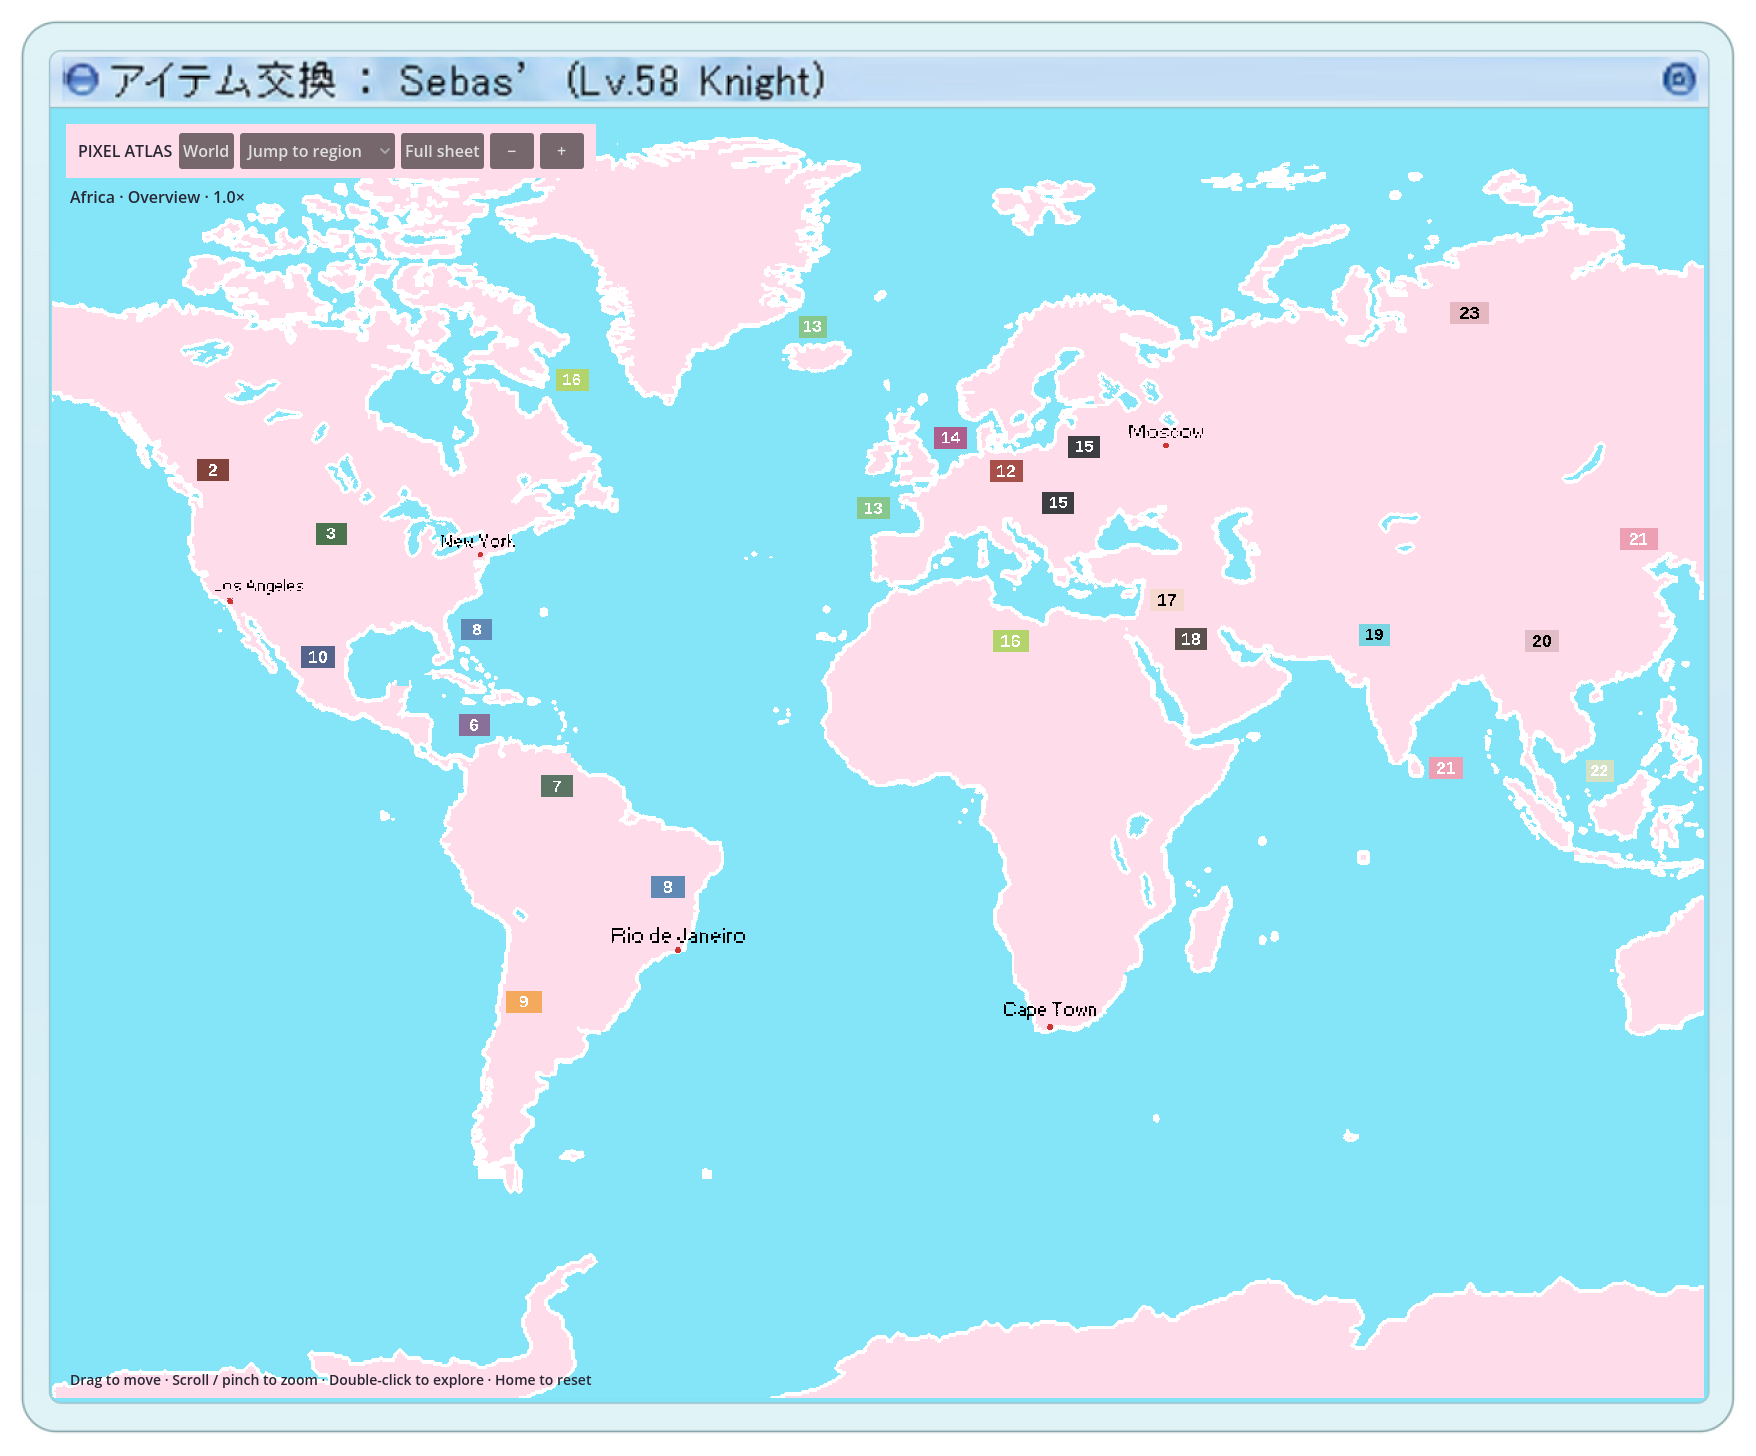
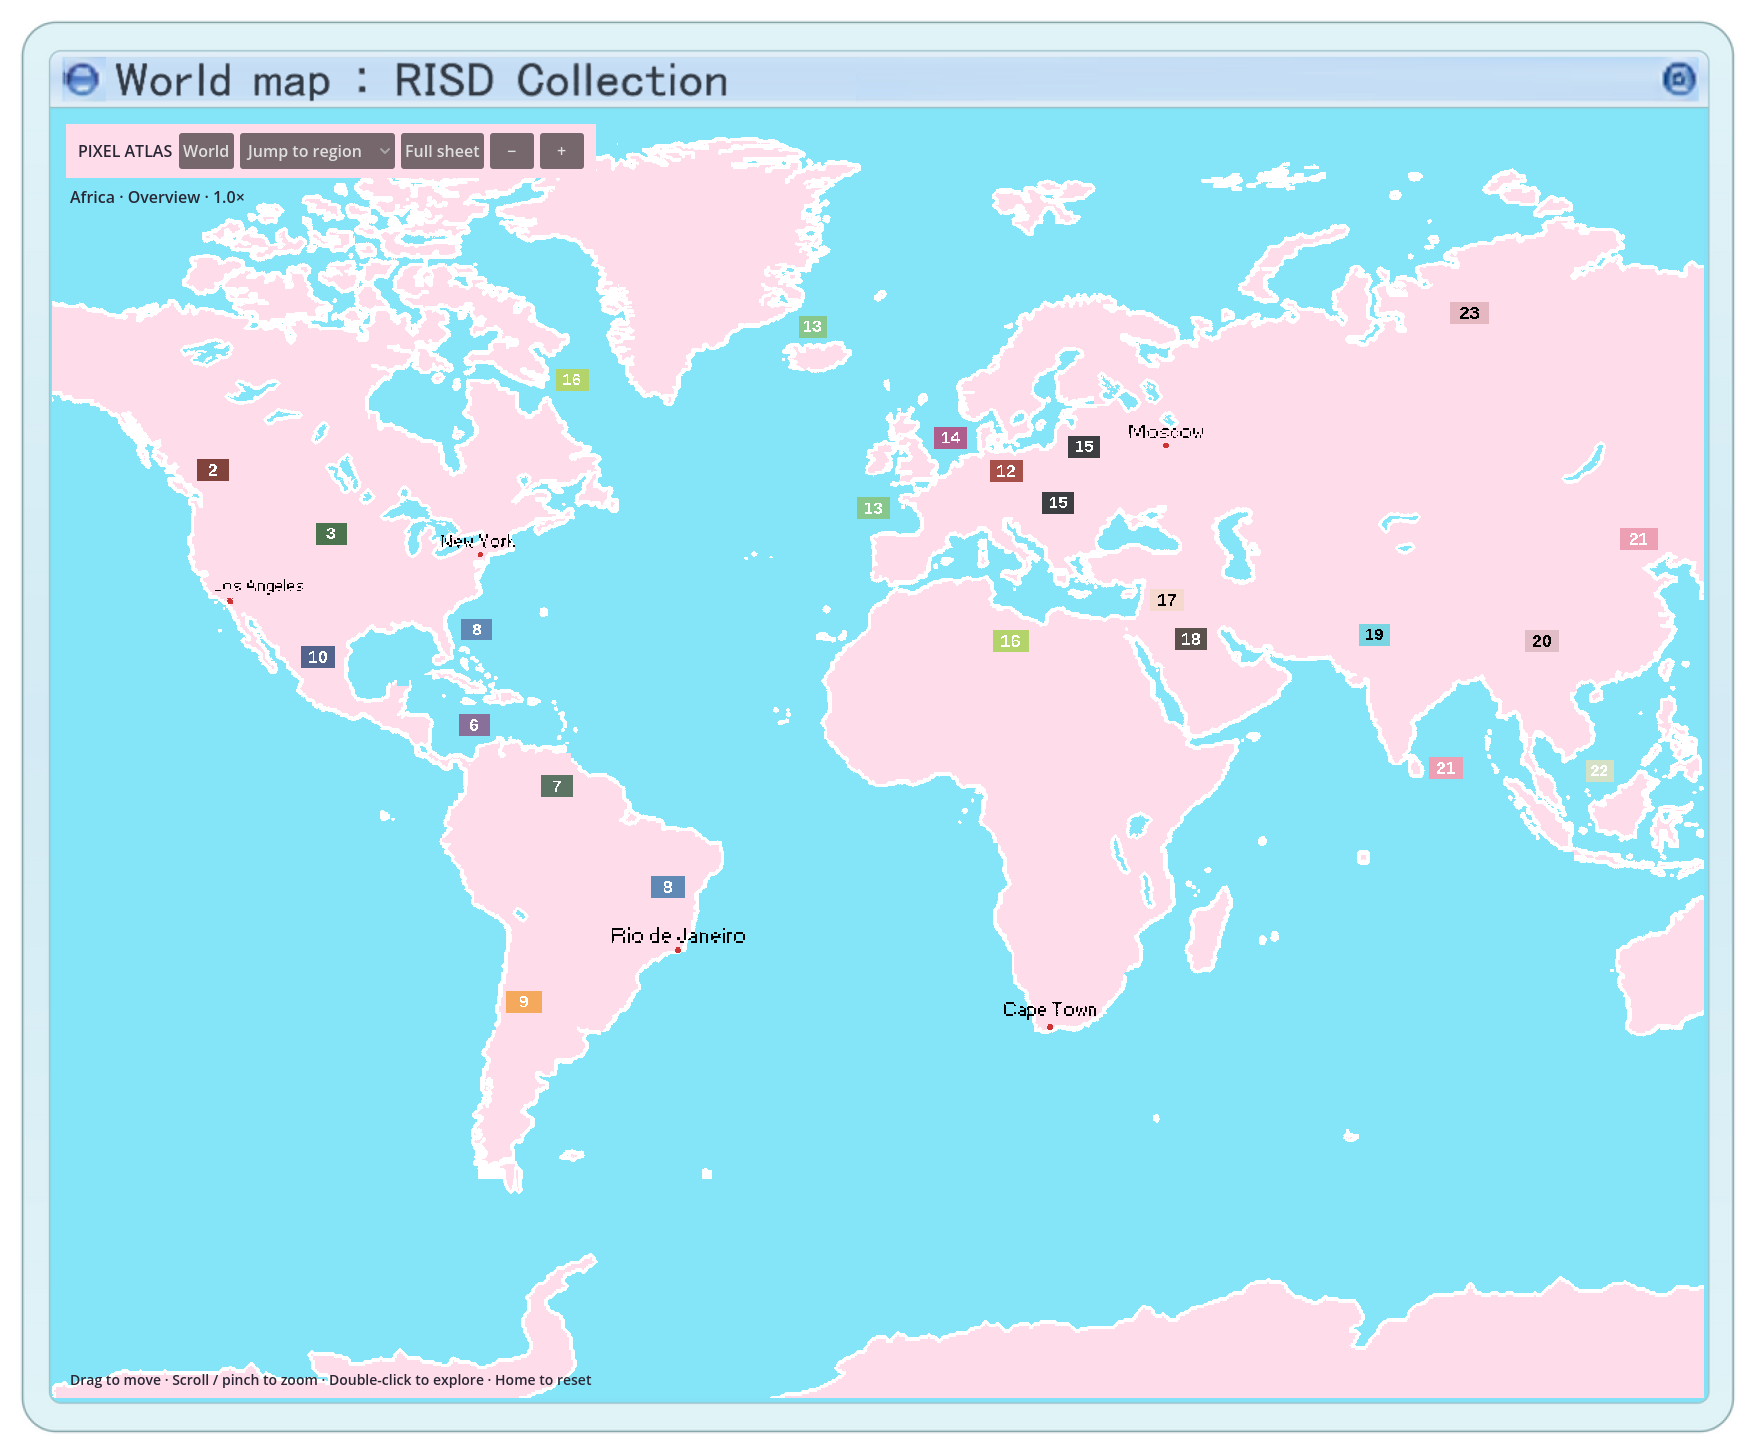
feat: generate RISD Collection window title with Muse

Changed region(s): [[0.0615, 0.0309, 0.4613, 0.0927]]

diff --git a/benchmarks/atlas-prototype/prepare_window.py b/benchmarks/atlas-prototype/prepare_window.py
@@ -1,6 +1,6 @@
-"""Extract reference chrome with color management; no synthesized frame pixels."""
+"""Extract reference chrome and assemble the Muse title inside its declared edit region."""
 from pathlib import Path
-from PIL import Image,ImageCms
+from PIL import Image,ImageCms,ImageFilter
 import hashlib,io,json,sys
 import numpy as np
 
@@ -18,8 +18,20 @@ a[94:h-42,36:w-36,3]=0
 for left in [36,w-56]:
  patch=a[h-62:h-42,left:left+20]
  patch[:,:,3]=np.where(np.max(np.abs(patch[:,:,:3].astype(int)-[132,228,247]),axis=2)>3,255,0)
+# Preserve the source gradient; transfer only Muse's generated letter coverage.
+donor_path=R/'generation/title-01/image-01.png'
+donor=np.array(Image.open(donor_path).convert('RGB').resize((1728,384),Image.Resampling.LANCZOS)).astype(float)
+letter=donor[45:91,96:718]
+background=np.median(donor[45:91,1000:1100],axis=1)[:,None,:]
+coverage=np.clip(np.mean((background-letter)/(background-[16,22,27]),axis=2),0,1)
+glyph_edge=np.array(Image.fromarray((letter.mean(axis=2)<140).astype('uint8')*255).filter(ImageFilter.MaxFilter(3)))>0
+coverage[~glyph_edge | (coverage<.06)]=0
+# The source title and anti-aliased edges fit within this one edit rectangle.
+a[40:88,90:840,:3]=np.median(a[40:88,900:1100,:3],axis=1).astype('uint8')[:,None,:]
+patch=a[42:88,96:718,:3]
+patch[:]=np.rint(patch*(1-coverage[:,:,None])+np.array([50,58,69])*coverage[:,:,None]).astype('uint8')
 out=R/'godot/assets/window-frame.png'
 Image.fromarray(a).save(out)
-metadata={'source':'reference/window-screenshot.png','source_sha256':hashlib.sha256(raw).hexdigest(),'classification':'source reference and deterministic frame extraction','source_color_profile_sha256':hashlib.sha256(profile).hexdigest(),'working_color_space':'sRGB; converted with Pillow ImageCms','source_rectangle':[20,16,1724,1424],'content_inset':[36,94],'frame_extra':[72,136],'header_fixed_left':850,'header_fixed_right':100,'bottom_corner_size':[56,62],'frame_sha256':hashlib.sha256(out.read_bytes()).hexdigest(),'generation_count':0}
+metadata={'source':'reference/window-screenshot.png','source_sha256':hashlib.sha256(raw).hexdigest(),'classification':'source reference and deterministic frame extraction','source_color_profile_sha256':hashlib.sha256(profile).hexdigest(),'working_color_space':'sRGB; converted with Pillow ImageCms','source_rectangle':[20,16,1724,1424],'content_inset':[36,94],'frame_extra':[72,136],'header_fixed_left':850,'header_fixed_right':100,'bottom_corner_size':[56,62],'frame_sha256':hashlib.sha256(out.read_bytes()).hexdigest(),'generation_count':1,'title':{'text':'World map : RISD Collection','edit_rectangle':[90,40,750,48],'donor':'generation/title-01/image-01.png','donor_sha256':hashlib.sha256(donor_path.read_bytes()).hexdigest(),'normalized_donor_size':[1728,384],'donor_crop':[96,45,622,46],'destination':[96,42],'assembly':'Generated glyph coverage over the source row gradient, using original dark text color; unchanged outside title rectangle'}}
 (R/'reference/window-source.json').write_text(json.dumps(metadata,indent=2)+'\n')
 print(json.dumps(metadata,indent=2))

diff --git a/benchmarks/atlas-prototype/verify_frame.py b/benchmarks/atlas-prototype/verify_frame.py
@@ -8,7 +8,14 @@ R=Path(__file__).resolve().parent
 source=np.array(Image.open(R/'godot/assets/window-frame.png').convert('RGBA'))
 reference=Image.open(R/'reference/window-screenshot.png').convert('RGB')
 normalized=ImageCms.profileToProfile(reference,ImageCms.ImageCmsProfile(io.BytesIO(reference.info['icc_profile'])),ImageCms.createProfile('sRGB'),outputMode='RGB')
-assert np.array_equal(source[:,:,:3],np.array(normalized.crop((20,16,1744,1440))))
+original=np.array(normalized.crop((20,16,1744,1440)))
+metadata=json.loads((R/'reference/window-source.json').read_text())
+assert metadata['title']['text']=='World map : RISD Collection'
+assert metadata['title']['edit_rectangle']==[90,40,750,48]
+unchanged=np.ones(source.shape[:2],dtype=bool);unchanged[40:88,90:840]=False
+changed=np.any(source[:,:,:3]!=original,axis=2)
+assert not np.any(changed & unchanged),'Frame pixels changed outside the title edit'
+assert np.count_nonzero(changed)>1000,'Title was not assembled'
 checks=[]
 for name in ['frame-reference-size','frame-reference-resized','frame-reference-moved']:
  state=json.loads((R/'evidence/play'/f'{name}.json').read_text())['window']
@@ -24,6 +31,6 @@ for name in ['frame-reference-size','frame-reference-resized','frame-reference-m
   assert maximum<=1,(name,label,maximum,mean)
   checks.append({'view':name,'region':label,'opaque_pixels':int(mask.sum()),'maximum_channel_difference':maximum,'mean_channel_difference':mean})
 assert json.loads((R/'evidence/play/frame-check.json').read_text())['status']=='pass'
-result={'status':'pass','source':'reference/window-screenshot.png','working_color_space':'sRGB','rendered_reference_checks':checks,'preserved_native_corner_pixels':True,'resizing_preserves_header_title_and_corners':True}
+result={'status':'pass','source':'reference/window-screenshot.png','working_color_space':'sRGB','title':metadata['title']['text'],'title_edit_rectangle':[90,40,750,48],'changed_pixels_outside_title':int(np.count_nonzero(changed & unchanged)),'rendered_reference_checks':checks,'preserved_native_corner_pixels':True,'resizing_preserves_header_title_and_corners':True}
 (R/'evidence/frame-fidelity.json').write_text(json.dumps(result,indent=2)+'\n')
 print(json.dumps(result,indent=2))

diff --git a/benchmarks/atlas-prototype/README.md b/benchmarks/atlas-prototype/README.md
@@ -83,3 +83,10 @@ The atlas now runs in its own Godot viewport inside the pale cyan reference fram
 The geographic cleanup now preserves the main eight Hawaiian islands. Previously, the small-island threshold removed all except the Big Island, which also excluded many of their city anchors. Honolulu appears from native zoom 1.8; Hilo, Kahului and Lihue from 6. Other Hawaiian additions use the existing slow population pacing, adding 40 source records overall. Elsewhere the cleanup and city thresholds remain unchanged. No generation.
 
 Frame extraction: `python3 benchmarks/atlas-prototype/prepare_window.py /path/to/reference.png`. The source is preserved in `reference/window-screenshot.png`. `playtest-frame.mjs` and `verify_frame.py` compare actual rendered source-size, resized and moved headers/corners to the color-managed screenshot.
+
+
+## Muse window title
+
+The header now reads `World map : RISD Collection`. One Muse (`meta/muse-image`) reference edit through OpenRouter generated the lettering for $0.01. The original source gradient is restored under the text and only the generated glyph coverage is transferred, using the original dark text color. Everything outside the 750×48 title rectangle at (90,40) remains pixel-identical to the approved frame. The reference, prompt, unmodified provider output, request/response, hashes and spend record are in `generation/title-*` and `generation/ledger.json`. These are source reference, selected donor and provenance artifacts respectively. Total prototype generation spend is now $0.02 for two outputs.
+
+`prepare_window.py` reproduces this assembly. `verify_frame.py` checks source preservation outside the title rectangle, then compares actual Godot headers and corners against the assembled asset at native, resized and moved sizes. The title changes no map code, assets or interactions.
